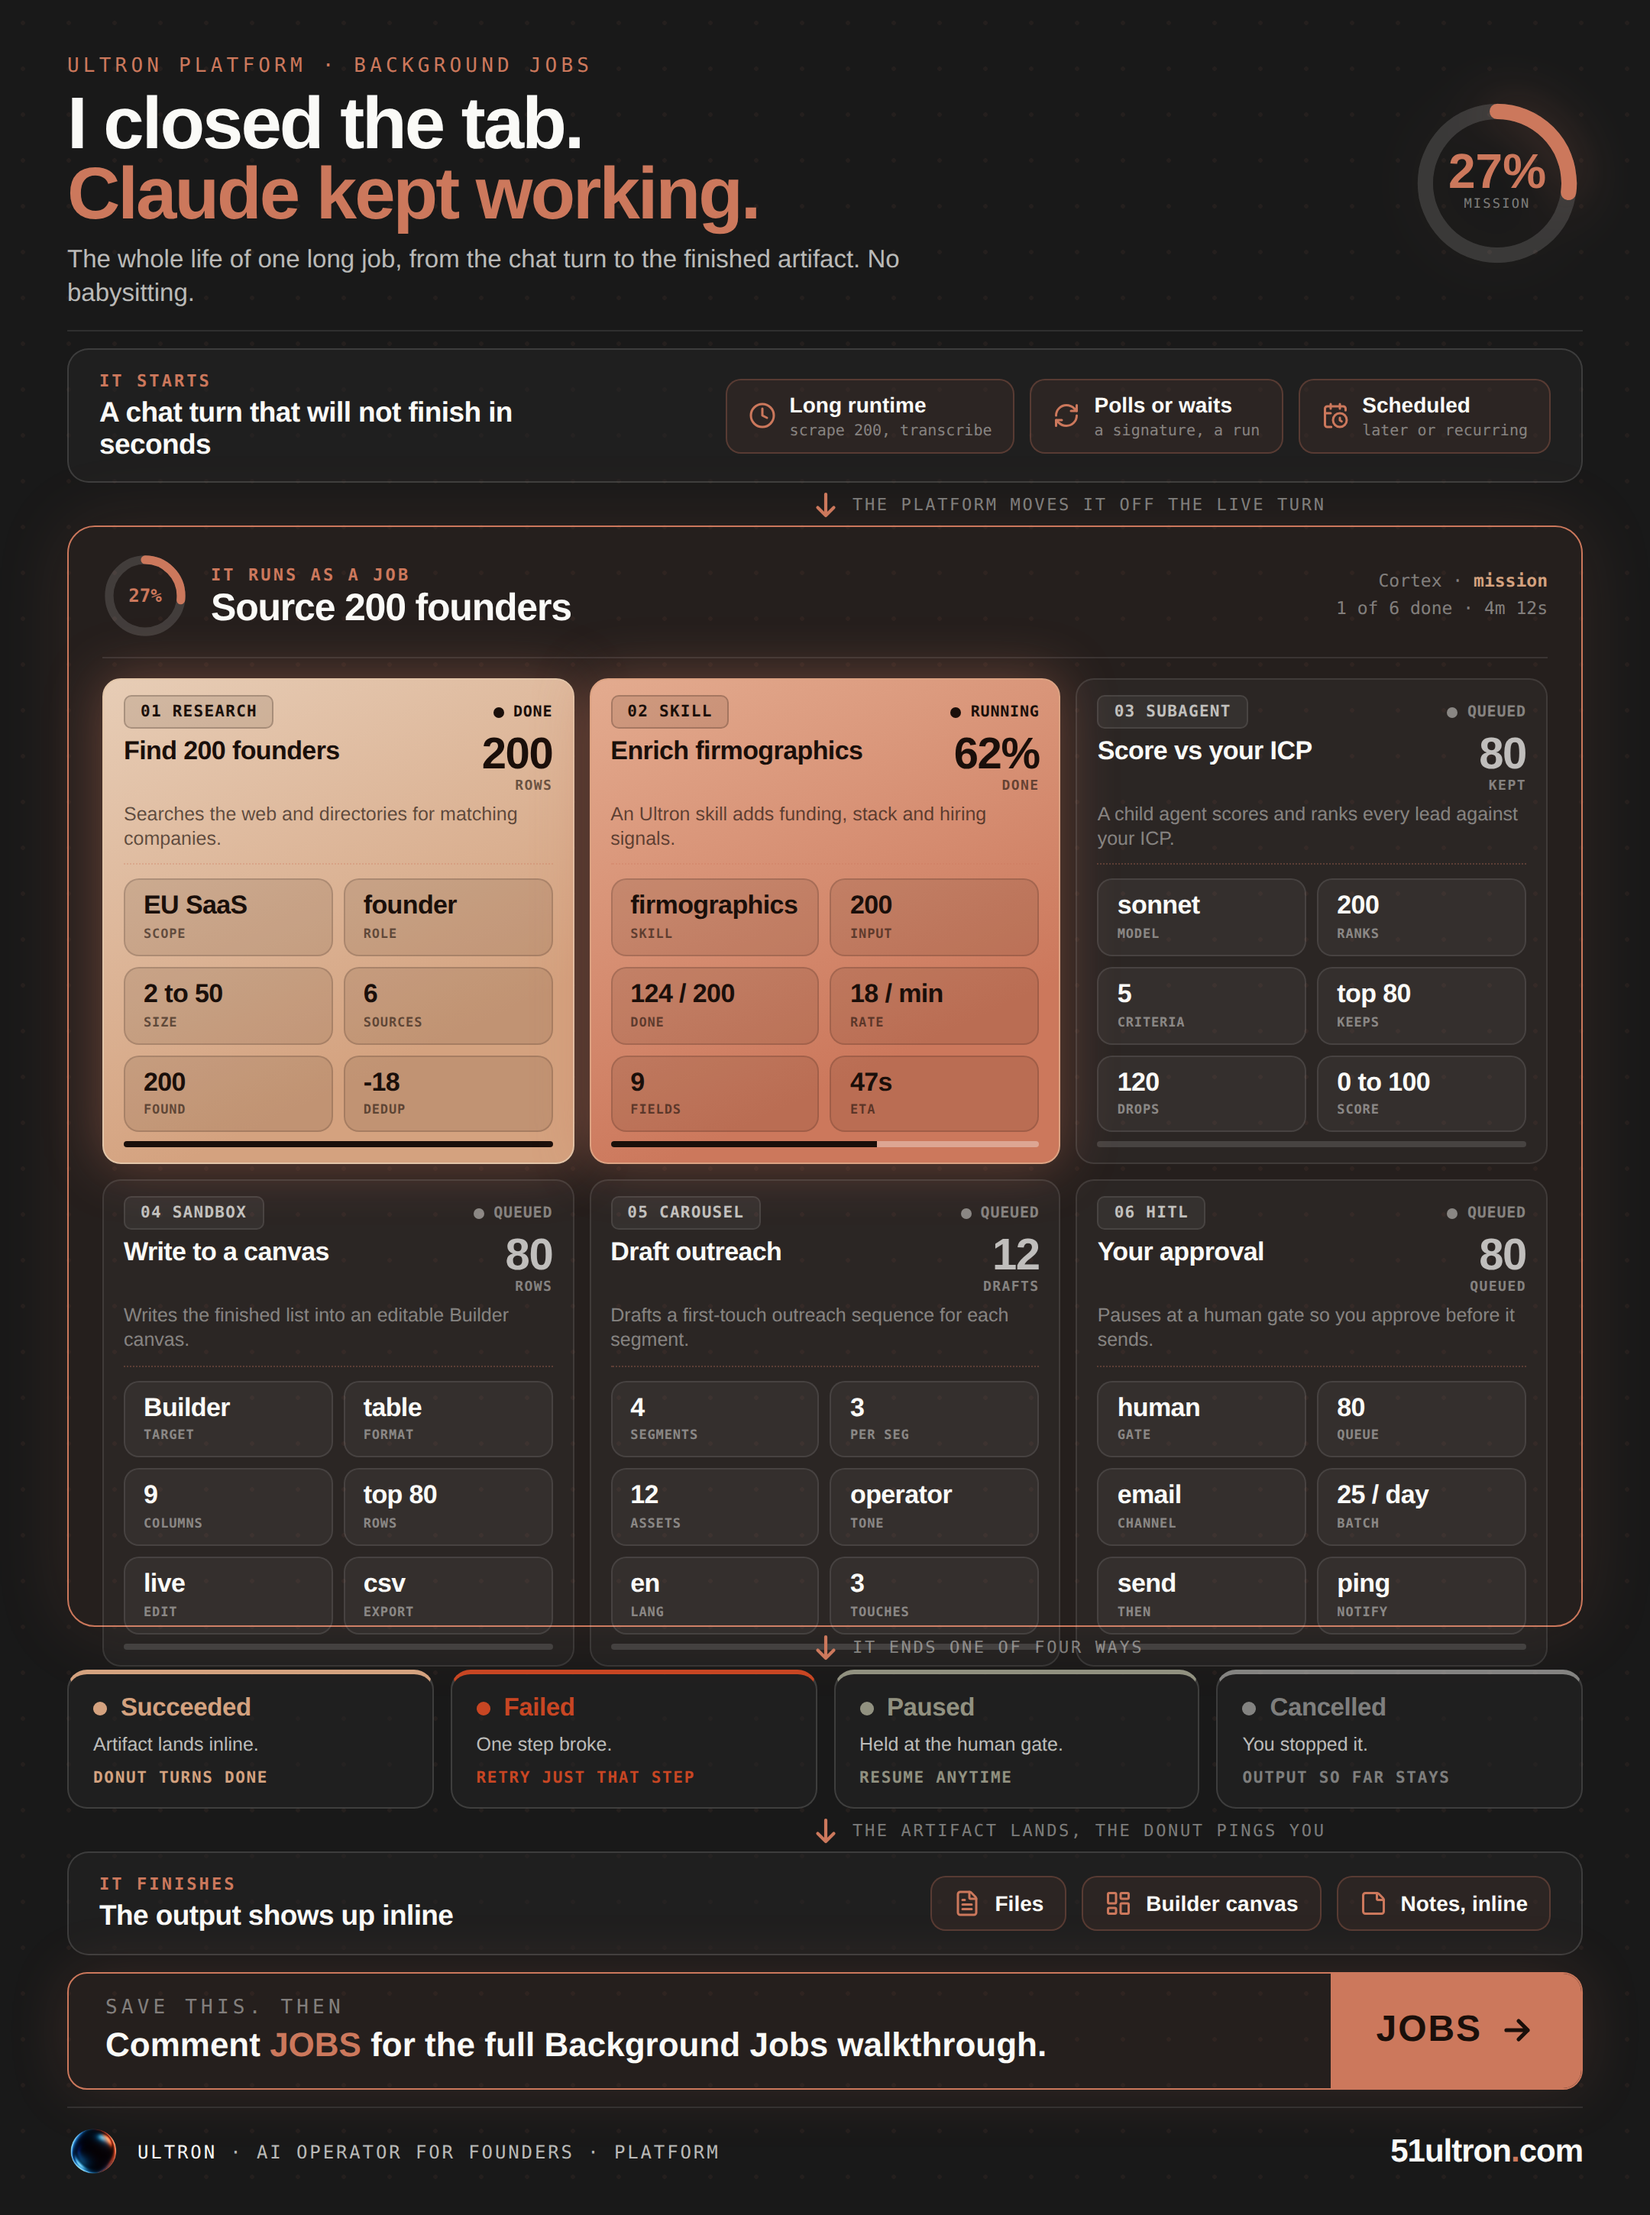
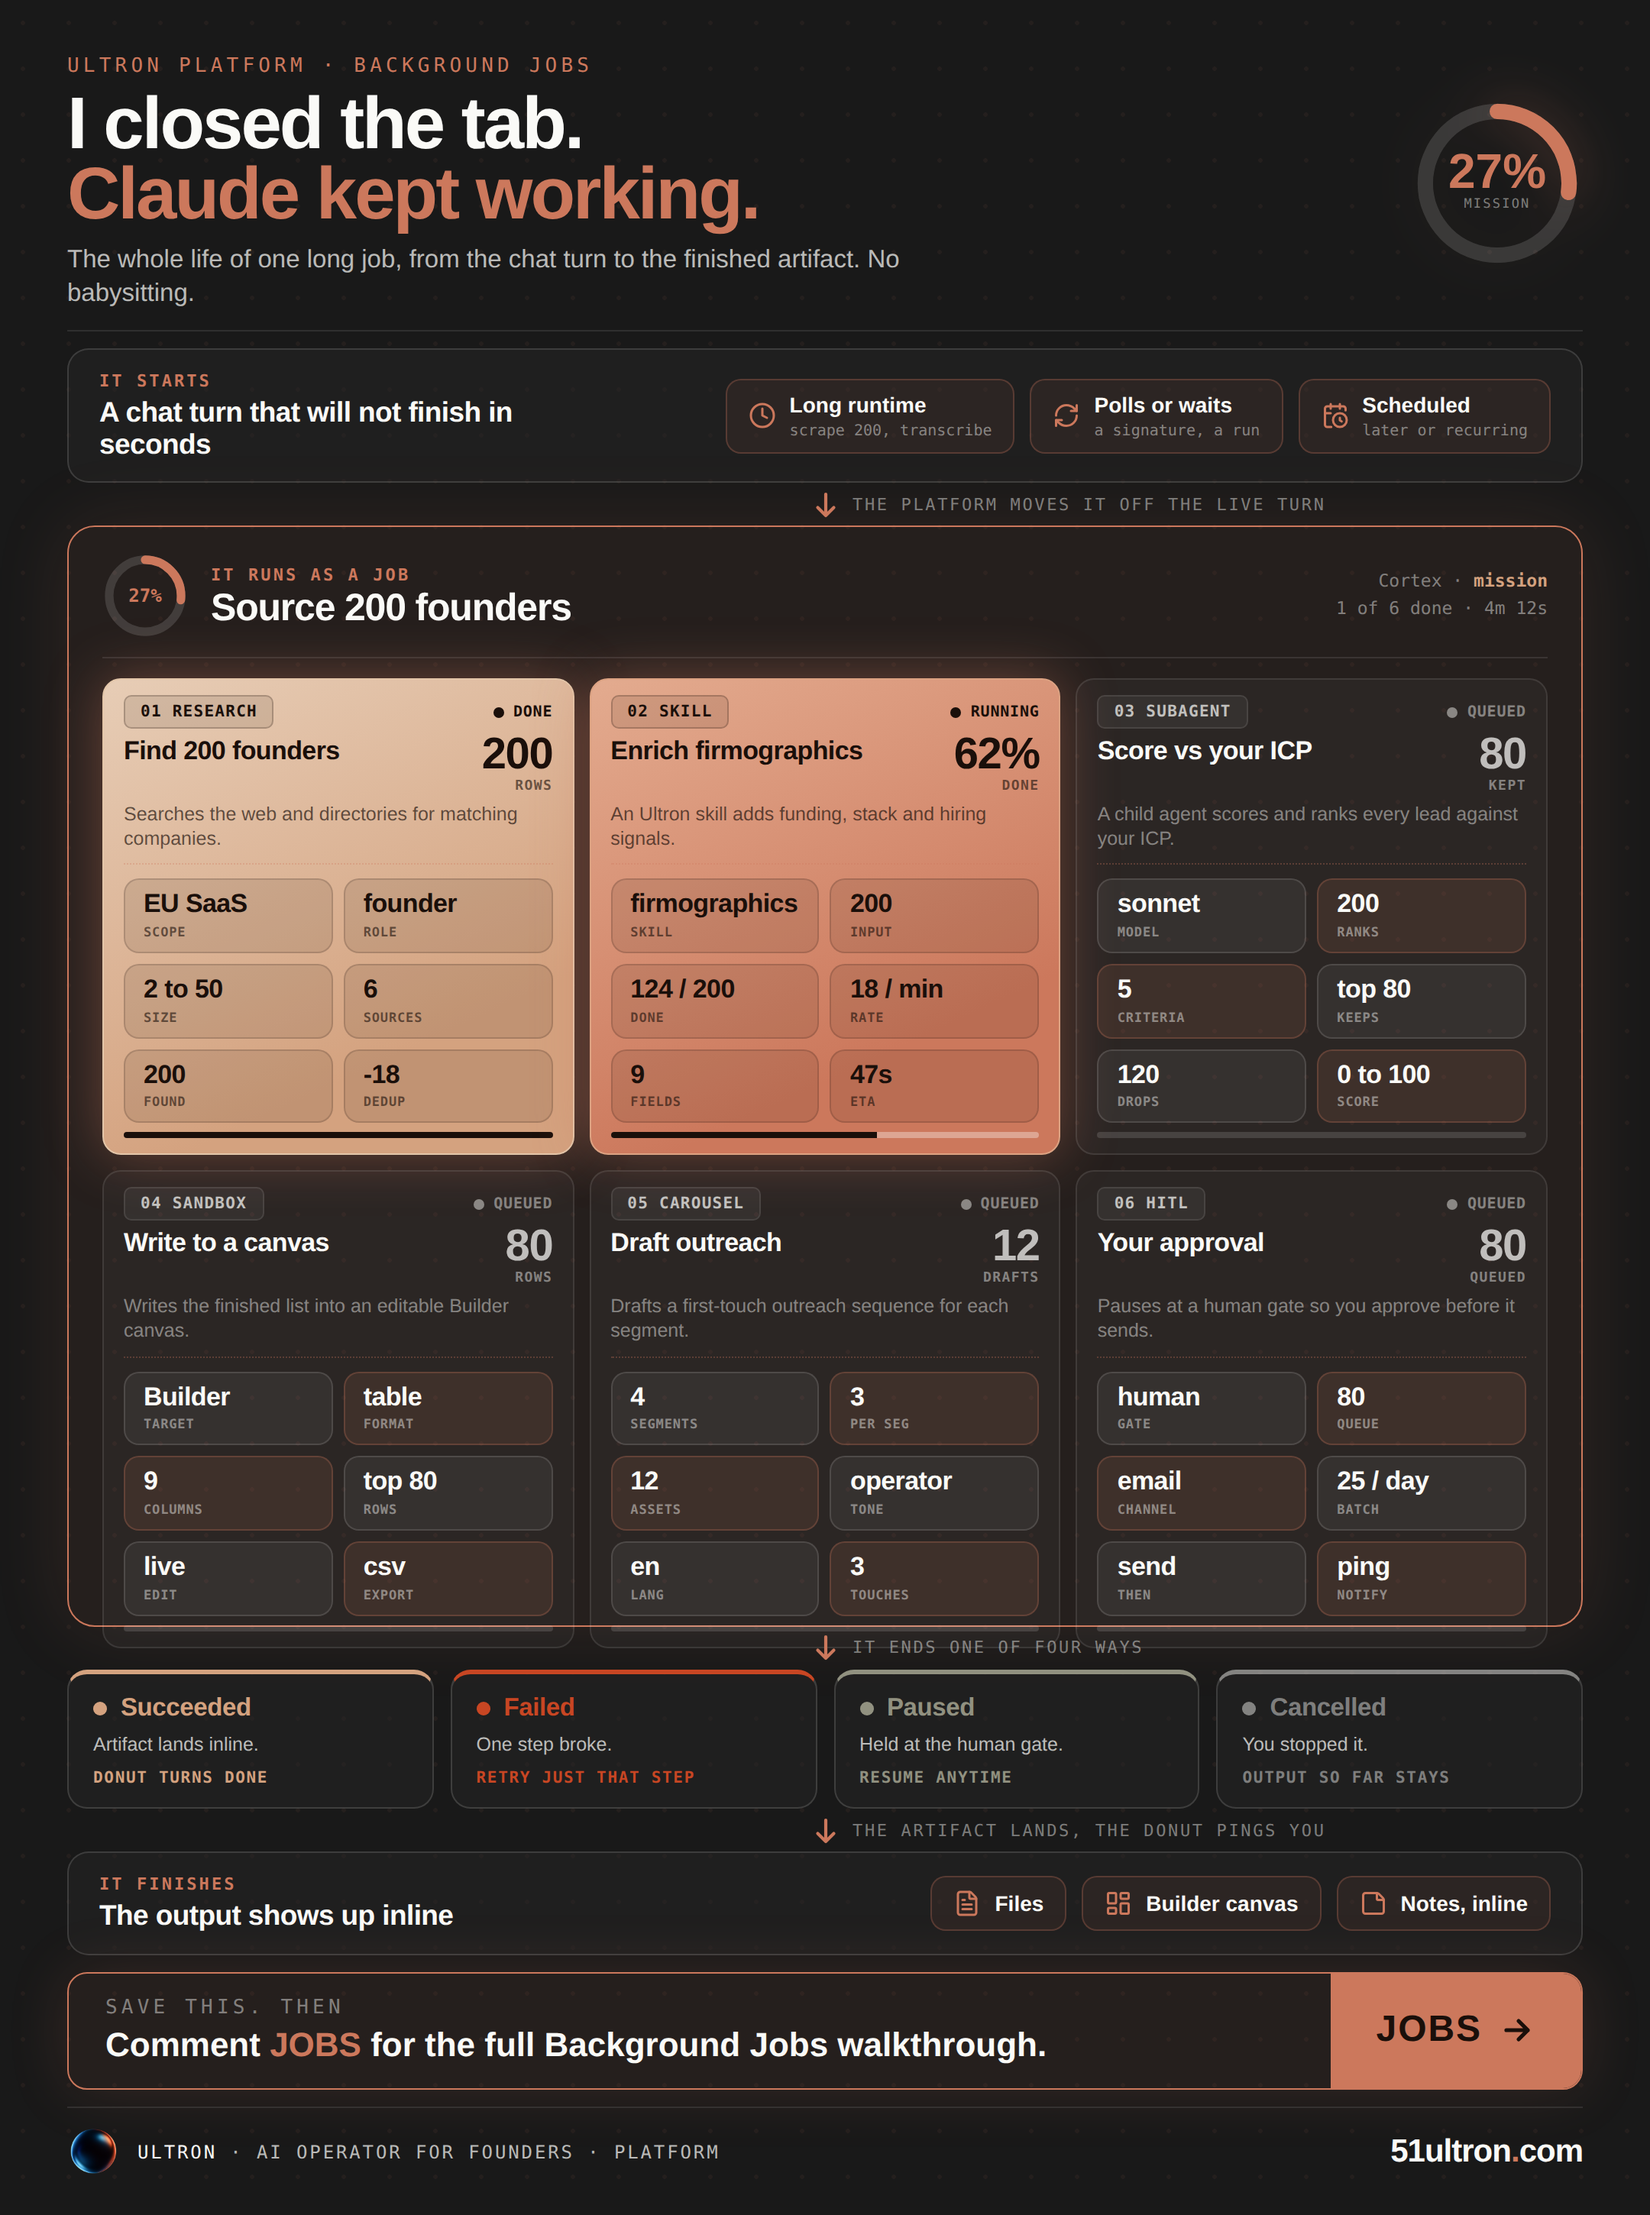
docs-05 tiles variant: fix overflow + checkerboard tile shades
Operator: the tile tables interleaved with the section below and the dark cards
read as a monolithic black block.
- Interleave: caused by too few data points stretching into tall ghost tiles
  (and 7 tiles overflowed into the branch). Back to 6 tiles in a clean 3-row grid
  that fits inside each card, no overflow.
- Monolithic block: the four dark cards now use a checkerboard of tile shades
  (adjacent tiles alternate neutral and warm-tinted) with clearer borders, so the
  cells are easy to read and distinct. The two solid cards stay uniform.

https://claude.ai/code/session_018fS7xMwDiJUxoNS3zo3BKw

Changed region(s): [[0.062, 0.4034, 0.9306, 0.7448]]

diff --git a/content/docs-05-jobs-linkedin-tiles.html b/content/docs-05-jobs-linkedin-tiles.html
@@ -67,9 +67,11 @@ body{background:#0d0d0d;display:flex;justify-content:center;padding:24px 0;font-
 .fbar{height:4px;border-radius:2px;background:var(--ink14);overflow:hidden;margin-top:6px;}
 .fbar i{display:block;height:100%;}
 .stats{flex:1;margin-top:8px;display:grid;grid-template-columns:1fr 1fr;grid-auto-rows:1fr;gap:7px;border-top:1px dotted rgba(204,120,92,.3);padding-top:9px;}
-.stile{background:rgba(255,255,255,.045);border:1px solid var(--rule);border-radius:10px;padding:8px 12px;display:flex;flex-direction:column;justify-content:center;min-width:0;}
+.stile{background:rgba(255,255,255,.05);border:1px solid rgba(250,250,247,.13);border-radius:10px;padding:7px 12px;display:flex;flex-direction:column;justify-content:center;min-width:0;}
 .stile .v{font-size:17px;font-weight:800;color:var(--ivory);letter-spacing:-.3px;line-height:1.04;}
 .stile .l{font-family:'DM Mono',monospace;font-size:8.5px;font-weight:600;letter-spacing:.05em;text-transform:uppercase;color:var(--ink46);margin-top:5px;}
+.stile.wide{grid-column:1 / -1;}
+.stile:nth-child(4n+2),.stile:nth-child(4n+3){background:rgba(204,120,92,.12);border-color:rgba(204,120,92,.26);}
 .fcard.solid .stile{background:rgba(26,15,10,.1);border-color:rgba(26,15,10,.16);}
 .fcard.solid .stile .v{color:#1a0f0a;}
 .fcard.solid .stile .l{color:rgba(26,15,10,.6);}
